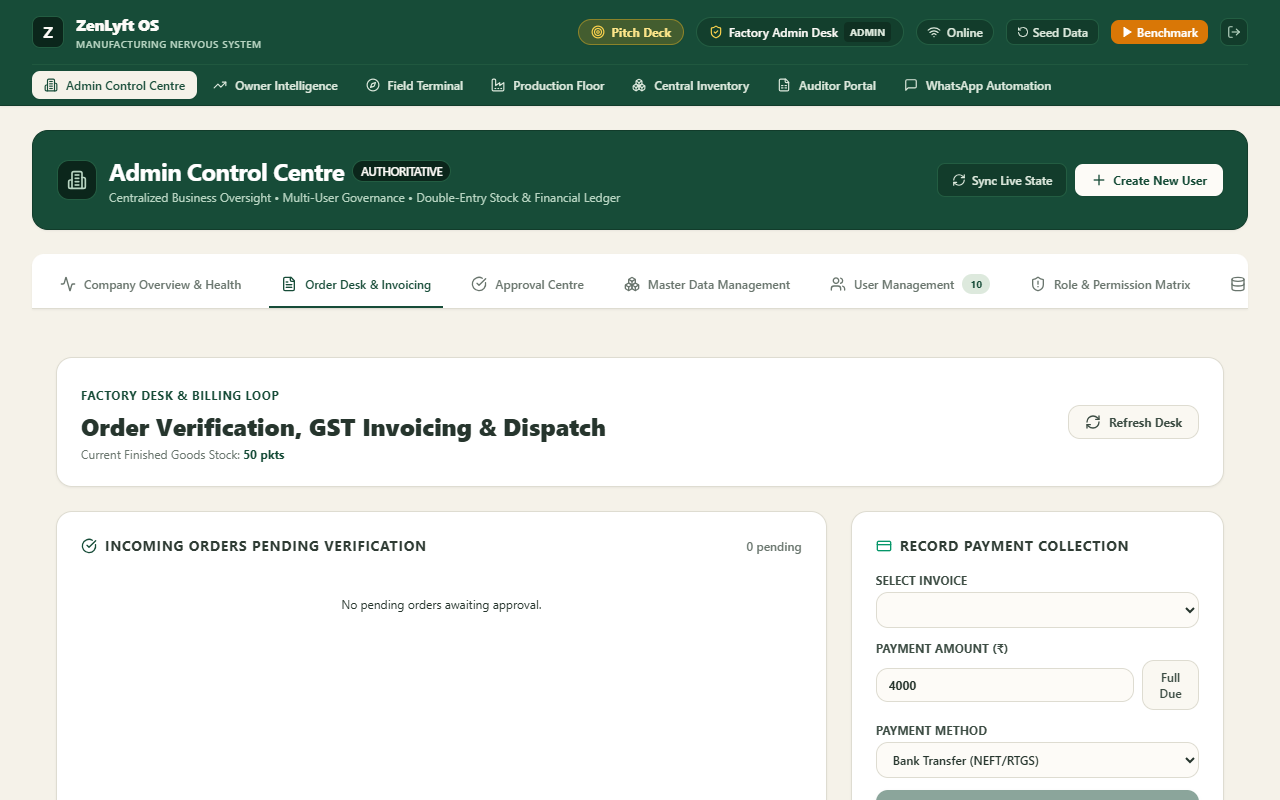
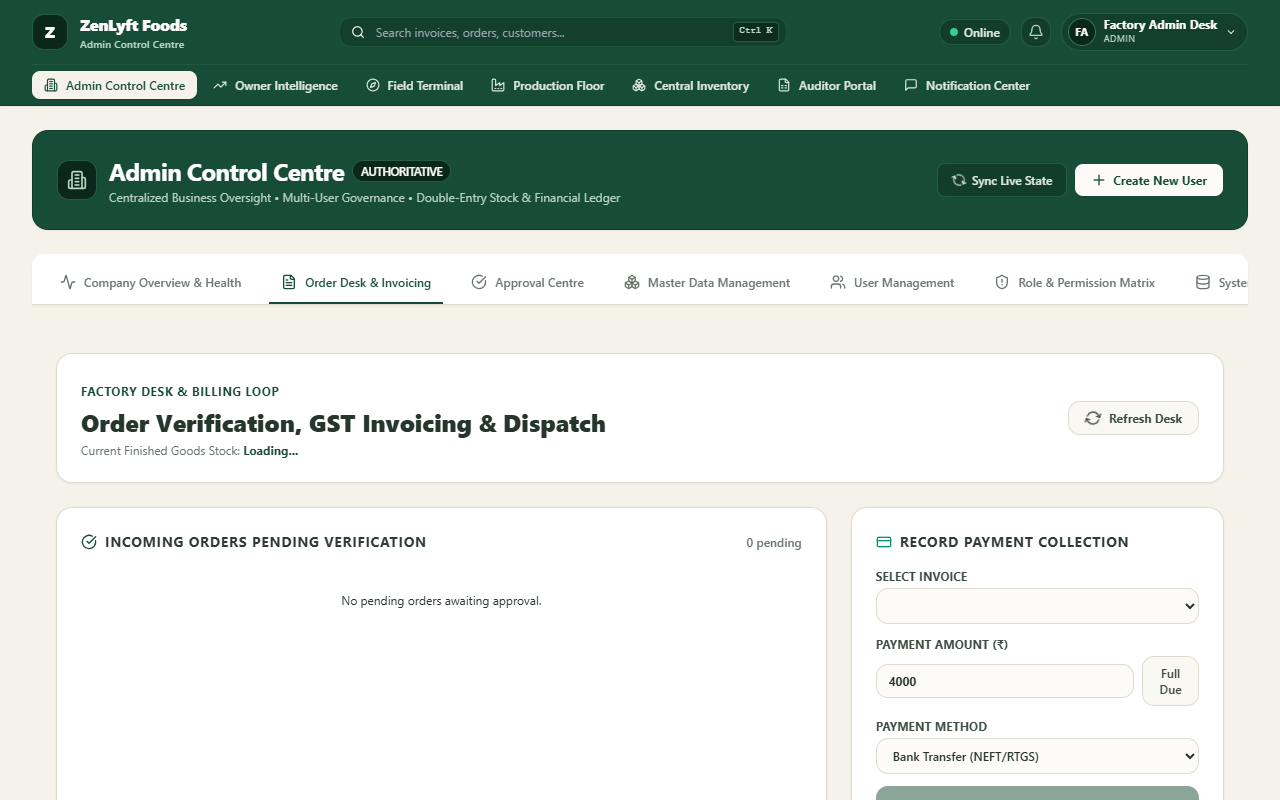
docs: update README with commercial UI architecture and refresh screenshots from live system

diff --git a/scripts/capture-screenshots.ts b/scripts/capture-screenshots.ts
@@ -128,9 +128,14 @@ async function main() {
 
     // 11. Section 5 Benchmark Execution Modal
     console.log('[Screenshots] Capturing 11-benchmark-modal.png...');
-    await clickNav('Benchmark');
-    await new Promise(r => setTimeout(r, 6000));
-    await waitAndSave('11-benchmark-modal.png', 1000);
+    await page.evaluate(`(() => {
+      const userBtn = document.querySelector('button[title="User account & profile"]');
+      if (userBtn) userBtn.click();
+    })()`);
+    await new Promise(r => setTimeout(r, 800));
+    await clickNav('Run NIT Benchmark');
+    await new Promise(r => setTimeout(r, 7000));
+    await waitAndSave('11-benchmark-modal.png', 1500);
 
     console.log('[Screenshots] ✓ All 11 screenshots successfully captured and saved in docs/screenshots/');
   } catch (err) {

diff --git a/README.md b/README.md
@@ -18,51 +18,51 @@ It completely eliminates fragmented WhatsApp order re-entry, disconnected spread
 
 ## 2. Visual Tour & Interface Gallery
 
-The platform provides role-tailored workspaces for every factory stakeholder:
+The platform provides role-tailored workspaces for every factory stakeholder, redesigned with an enterprise-grade commercial interface:
 
 ### 1. Unified Authentication Gateway
 ![Login Gateway](docs/screenshots/01-login-gateway.png)
-*Multi-role login gateway featuring one-click demo credentials, PWA installation status, and quick-access NIT Benchmark execution.*
+*Pristine commercial login gateway featuring secure role authentication, show/hide password toggle, and collapsible evaluator access tray (`VITE_SHOW_EVAL_TOOLS`).*
 
-### 2. Admin Control Centre — Executive Overview
+### 2. Commercial Top Navigation Bar & Executive Overview
 ![Admin Overview](docs/screenshots/02-admin-overview.png)
-*Authoritative administrative dashboard showing active revenue, pending order approvals, warehouse inventory valuation, and recent audit logs.*
+*Commercial header featuring dynamic factory branding (`GET /api/settings`), desktop `Ctrl+K` global search across invoices, orders and customers, live IndexedDB sync status pill, notifications bell with real-time variance/stock alerts, and executive revenue cards.*
 
 ### 3. Billing Desk, Order Editing & Credit Notes
 ![Admin Billing Desk](docs/screenshots/03-admin-billing-desk.png)
-*Order management desk supporting inline order edits, partial dispatch tracking, invoice cancellation with automatic Credit Note issuance, and pre-filled WhatsApp share links.*
+*Order management desk supporting sticky table headers, click-to-copy badges (`CopyableBadge`) for Order and Invoice IDs, table pagination, inline order editing, partial dispatch tracking, and invoice cancellation with automatic Credit Note generation.*
 
 ### 4. Enterprise Master Data Catalog
 ![Admin Masters](docs/screenshots/04-admin-masters.png)
-*Centralized master catalog for Customers, Products (HSN & GST), Raw Materials (WAC rates), BOM Standard Recipes, and Approved Suppliers.*
+*Centralized master catalog with pagination and clean empty states for Customers, Products (HSN & GST), Raw Materials (WAC rates), BOM Standard Recipes, and Approved Suppliers.*
 
 ### 5. Salesman Field Terminal (Offline-First PWA)
 ![Salesman PWA](docs/screenshots/05-salesman-pwa.png)
-*Mobile-optimized rapid order terminal with quantity stepper controls (`+50`, `+100`), Dexie.js IndexedDB offline sync queue, and route performance analytics.*
+*Mobile-optimized route terminal with dedicated tabs ("New Order", "My Orders", "My Sales"), quantity stepper controls (`+50`, `+100`), Dexie.js IndexedDB offline sync queue pill, and GPS check-in verification.*
 
 ### 6. Production Floor & Recipe Scaler (English)
 ![Production Floor English](docs/screenshots/06-production-floor-en.png)
-*Floor supervisor workstation featuring interactive recipe scaling (0.5x, 1x, 2x, 3x), real-time tolerance alerting (flagging -6% yield and +5% oil variance in red), and automated production planning suggestions.*
+*Floor supervisor workstation featuring interactive recipe scaling (0.5x, 1x, 2x, 3x), real-time tolerance alerting (flagging -6% yield and +5% oil variance in red), atomic post-run overhead editing, and unit cost calculation (₹31.14 / packet).*
 
 ### 7. Production Floor (Tamil Bilingual Mode)
 ![Production Floor Tamil](docs/screenshots/07-production-floor-ta.png)
-*Instant bilingual language toggle (`தமிழ்`) translating recipe quantities and variance alerts for floor mixing and packaging workers.*
+*Instant bilingual language toggle (`தமிழ்`) accessible directly from the top navigation bar, translating recipe quantities and variance alerts for floor mixing and packaging workers.*
 
 ### 8. Central Warehouse & Double-Entry Stock Ledger
 ![Central Inventory](docs/screenshots/08-central-inventory.png)
-*Authoritative stock ledger with category summary valuation cards, low-stock reorder badges, traceable `sourceDocType`/`sourceDocId` columns, and First-Expiry-First-Out (FEFO) batch tracking.*
+*Authoritative stock ledger with sticky headers, click-to-copy document IDs, category summary valuation cards, low-stock reorder badges, traceable `sourceDocType`/`sourceDocId` columns, and First-Expiry-First-Out (FEFO) batch tracking.*
 
 ### 9. External Auditor Portal & Statutory Tax Schedules
 ![Auditor Portal](docs/screenshots/09-auditor-portal.png)
-*Read-only statutory portal with date-filtered Sales Register, Purchase Register, GSTR-1 Tables, GSTR-3B summary, and export options in Excel (.xlsx with summary formulas), CSV, PDF, and Tally Prime XML.*
+*Strictly read-only statutory portal with date-filtered Sales Register, Purchase Register, GSTR-1 Tables, GSTR-3B summary, and export options in Excel (.xlsx with formulas), CSV, PDF, and Tally Prime XML.*
 
 ### 10. Owner Profit Intelligence & Audit Trail
 ![Owner Intelligence](docs/screenshots/10-owner-intelligence.png)
-*Executive dashboard visualizing unit gross margins (₹31.14 packet cost vs ₹50 selling price), turnover, and append-only tamper-evident audit history.*
+*Executive dashboard visualizing unit gross margins (₹31.14 packet cost vs ₹50 selling price, 37.7% margin), factory turnover, and append-only tamper-evident audit history.*
 
 ### 11. Section 5 Mandatory Benchmark Verification Modal
 ![Benchmark Modal](docs/screenshots/11-benchmark-modal.png)
-*Interactive benchmark execution modal verifying 100% mathematical precision across all 9 NIT Tiruchirappalli problem statement criteria.*
+*Interactive benchmark execution modal triggered from the top-bar administrator profile menu, verifying 100% mathematical precision across all 9 NIT Tiruchirappalli problem statement criteria.*
 
 ---
 
@@ -204,3 +204,27 @@ To maintain total honesty during interview evaluation:
 | **Multi-Format Reports** | **Production Real** | Excel (.xlsx with formulas), CSV, PDF & Tally Prime XML. |
 | **E-Invoice (IRN & QR)** | **Simulated (Mock)** | Simulated standard NIC sandbox schema with QR code generator. Labelled `(mock)` in UI. |
 | **WhatsApp Notifications** | **Simulated (Mock)** | Local message queue simulating OpenWA webhook container. Labelled `(mock)` in UI. |
+
+---
+
+## 8. Commercial UI Architecture & Design System
+
+The frontend is built with **React 18 + Vite + Tailwind CSS + Dexie.js (IndexedDB) + Lucide Icons**, crafted as an enterprise SaaS product:
+
+### 1. Commercial Top Navigation Bar (`Navbar.tsx`)
+- **Dynamic Factory Branding:** Queries `GET /api/settings` for factory name and state (`"ZenLyft Foods Pvt Ltd"`), paired with context-aware module subtitles (`"Billing Desk"`, `"Production Floor"`).
+- **Desktop Global Search (`Ctrl+K`):** Instant keyboard-shortcut search querying invoices, orders, and customer accounts with direct navigation.
+- **Offline Sync Status Pill:** Real-time visual indicator displaying `"Online"` (emerald pulse) or `"Offline"` (amber) along with the active IndexedDB unsynced order count (`"Online · 0 queued"`). Clicking the pill toggles offline mode for immediate field testing.
+- **Operational Notifications Bell:** Live unread badge count with a popover tray surfacing production variance flags, warehouse low-stock reorder warnings, and pending sales order approvals.
+- **Role-Based Profile Menu:** User avatar, name, role badge, quick links for profile and password change, and evaluator tooling ("Run NIT Benchmark" and "Reset Demo Data" with typed confirmation, active when `VITE_SHOW_EVAL_TOOLS=true`).
+
+### 2. Standardized Dialog & Notification System
+- **Toast Notifications (`Toast.tsx`):** Provides `useToast()` hook with auto-dismissing toast alerts for success, error, warning, and info states. Completely replaces raw browser `alert()`.
+- **Accessible Confirmation Dialogs (`ConfirmDialog.tsx`):** Provides `useConfirm()` hook supporting confirm modals and input prompts (e.g. rejection justifications), replacing browser `confirm()` and `prompt()`.
+- **Global Error Boundary (`ErrorBoundary.tsx`):** Catches unhandled frontend exceptions and renders an enterprise crash recovery card with a one-click session reload.
+
+### 3. Data Presentation & Table Standards
+- **Click-to-Copy Badges (`CopyableBadge.tsx`):** Interactive mono badges for Order numbers (`SO-...`), Invoice numbers (`INV-...`), and Production Run numbers (`PR-...`) that copy to the clipboard with animated checkmark feedback.
+- **Table Pagination & Empty States:** [`TablePagination.tsx`](file:///c:/Users/91934/.gemini/antigravity/scratch/Nash%20factory%20ERP/client/src/components/TablePagination.tsx) and [`TableEmptyState.tsx`](file:///c:/Users/91934/.gemini/antigravity/scratch/Nash%20factory%20ERP/client/src/components/TableEmptyState.tsx) provide consistent table navigation and helpful empty placeholders across Admin, Inventory, and Auditor desks.
+- **Indian Monetary Formatting (`formatters.ts`):** Centralized helper functions `formatCurrencyRupees` and `formatCurrencyPaise` formatting numbers to standard Indian currency (`₹7,875.00`) and preventing floating-point rounding artifacts.
+- **Persistent Enterprise Footer (`App.tsx`):** Subtle watermark across all pages displaying `ZenLyft Manufacturing OS v1.0.0 • Enterprise Edition` and cluster metadata.
